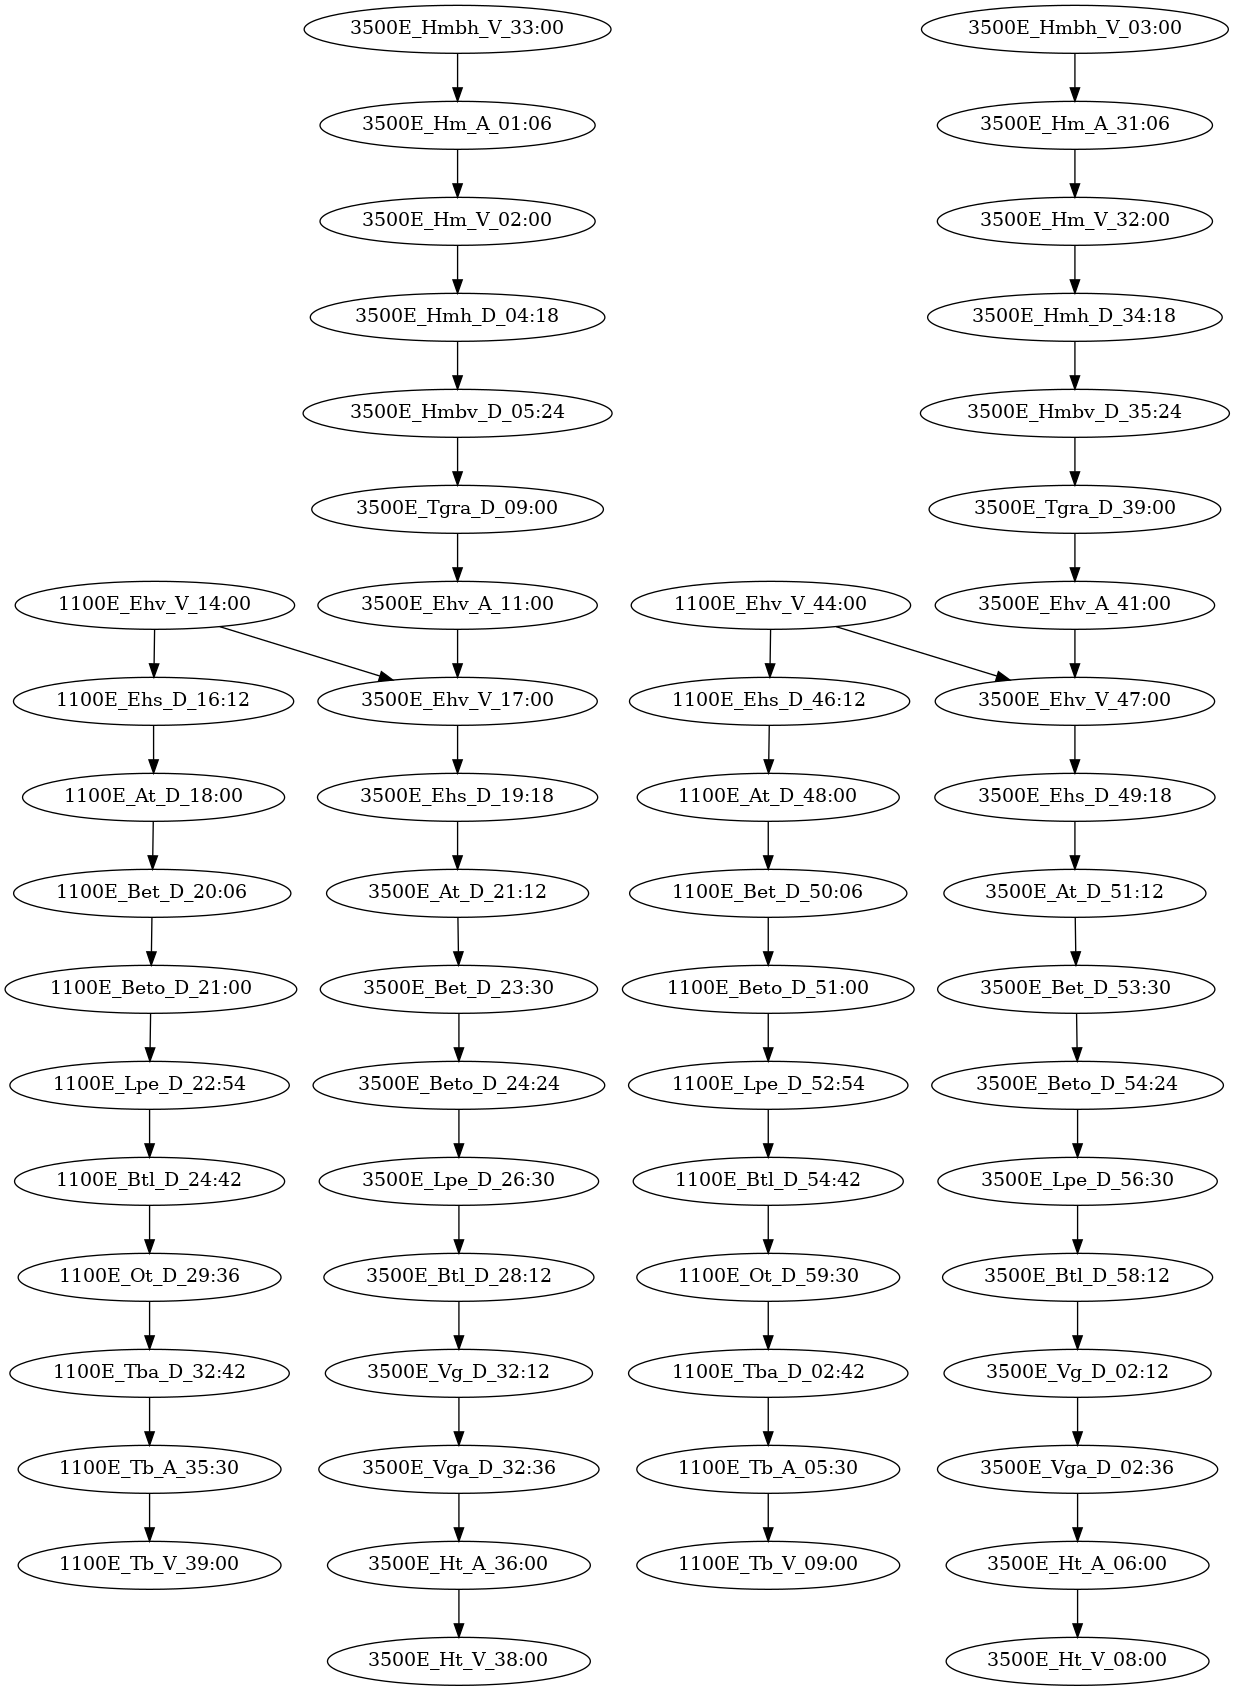
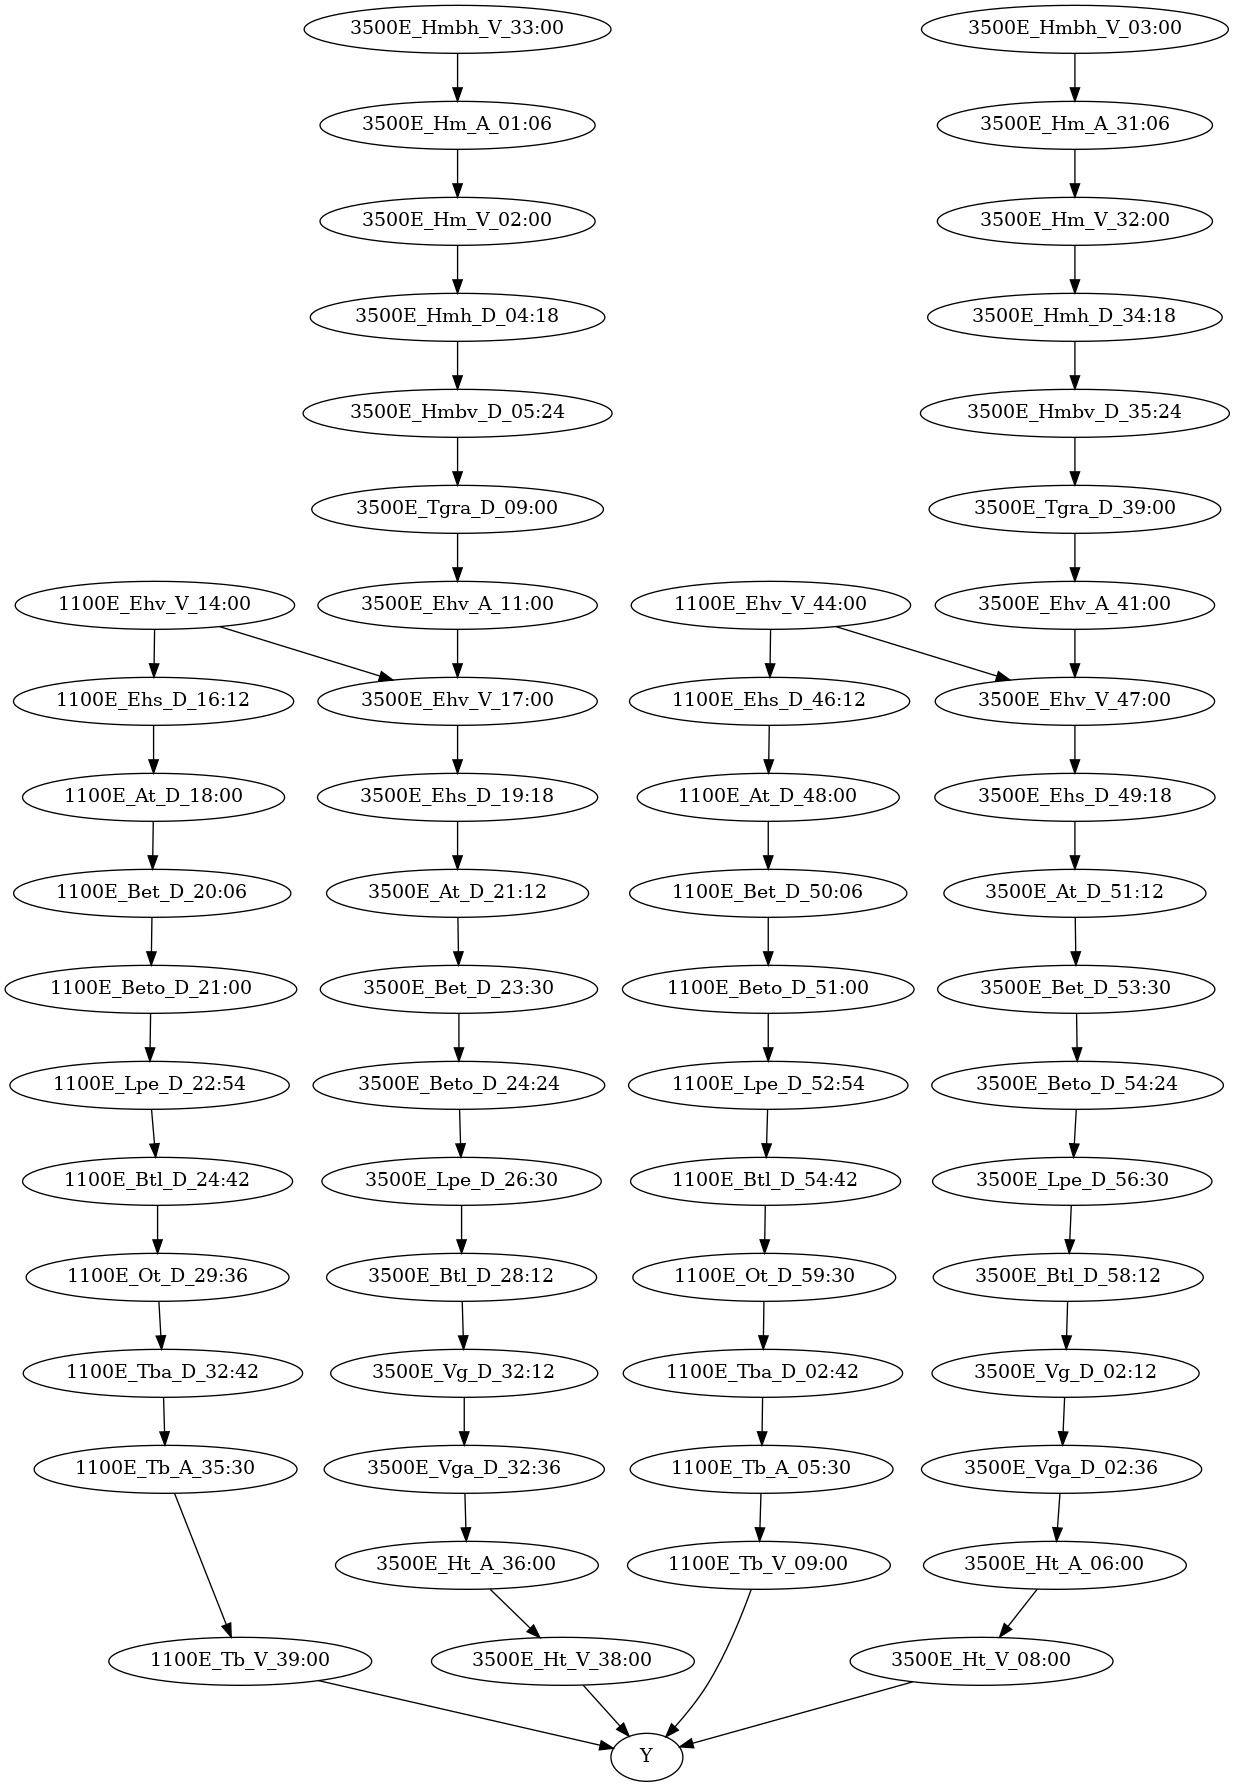
reward node added to railway cbn

Changed region(s): [[0.0, 0.0, 1.0, 1.0]]

diff --git a/experiments/_railway_data_to_cbn.py b/experiments/_railway_data_to_cbn.py
@@ -11,7 +11,7 @@ def cbn_from_railway_data(
     buffer: float = 3,
     k: float = 1,
     theta: float = 1,
-    max_delay: int = 60,
+    max_delay: int = 30,
 ) -> BayesianNetwork:
     df = pd.read_csv(path_csv, header=0, sep=";")
     # df=pd.read_csv('data/scm.csv',header=0,sep=';')
@@ -45,7 +45,9 @@ def cbn_from_railway_data(
     for node in cbn.nodes:
         parents: list[str] = cbn.get_parents(node)
         if len(parents) == 0:
-            node_cpd_array = _normalized_discrete_gamma(k, theta, x_card=max_delay)
+            node_cpd_array = _normalized_discrete_gamma(
+                k + 1, theta + 1, x_card=max_delay
+            )  # Larger shape and scale parameters for root nodes
             node_cpd_table = node_cpd_array.reshape(-1, 1)
             evidence = []
             evidence_card = []
@@ -96,6 +98,26 @@ def cbn_from_railway_data(
         )
         cbn.add_cpds(cpd)
 
+    # Reward node
+    leaves: list[str] = cbn.get_leaves()
+    # There will be one edge from each childless node
+    cbn.add_node("Y")
+    cbn.add_edges_from([leaf, "Y"] for leaf in leaves)
+    # Add CPD for reward node
+    reward_cpd_array = np.zeros((max_delay,) * 5)
+    for parent_vals in np.ndindex(*reward_cpd_array.shape[1:]):
+        y = round(np.mean(parent_vals))
+        reward_cpd_array[(y, *parent_vals)] = 1.0
+    reward_cpd_table = reward_cpd_array.reshape(max_delay, -1)
+    cpd = TabularCPD(
+        variable="Y",
+        variable_card=max_delay,
+        values=reward_cpd_table,
+        evidence=leaves,
+        evidence_card=[max_delay] * len(leaves),
+    )
+    cbn.add_cpds(cpd)
+
     return cbn
 
 
@@ -127,13 +149,20 @@ def _normalized_discrete_gamma(k, theta, x_card, shift=0):
 
 
 if __name__ == "__main__":
-    cbn = cbn_from_railway_data("./data/railway_data.csv")
+    cbn = cbn_from_railway_data("./data/railway_data.csv", buffer=3)
 
     from PIL import Image
 
     graph = cbn.to_graphviz()
     graph.draw("railway_graph.png", prog="dot")
     Image.open("railway_graph.png").show()
+
+    df = cbn.simulate()
+    print(df[["1100E_Ehv_V_44:00", "3500E_Ehv_A_41:00", "3500E_Ehv_V_47:00"]])
+
+    # fmt:off
+    import ipdb; ipdb.set_trace() # noqa
+    # fmt:on
 
 # TEST for way I'm mapping array to table
 # def map_index_to_number(n):
